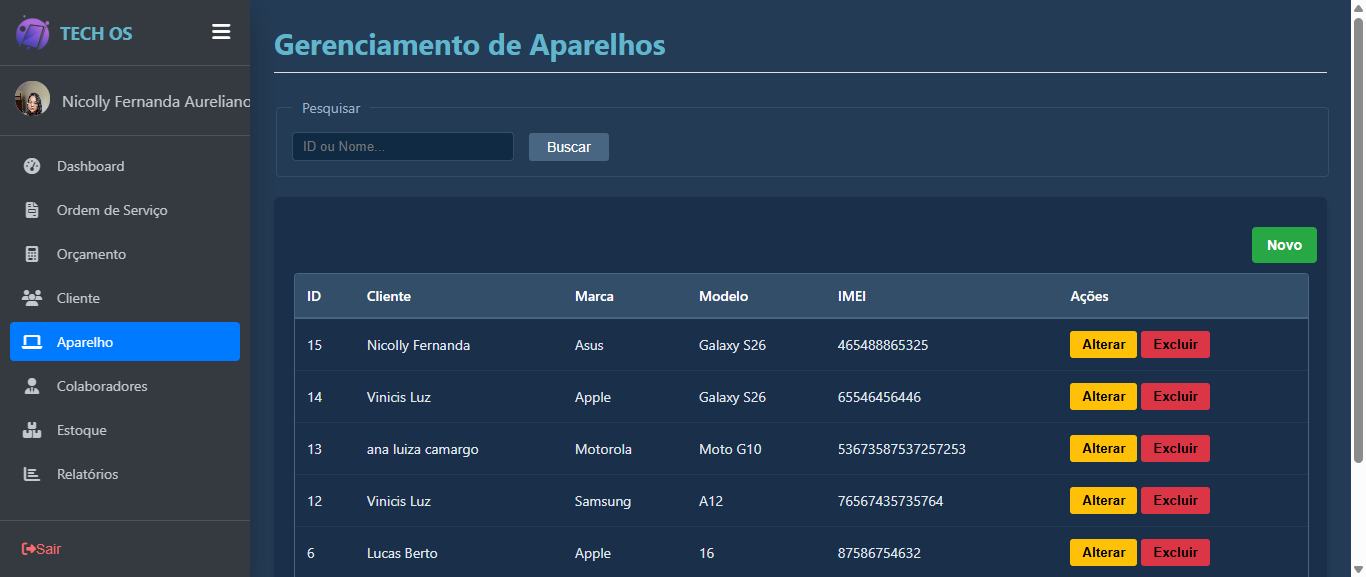
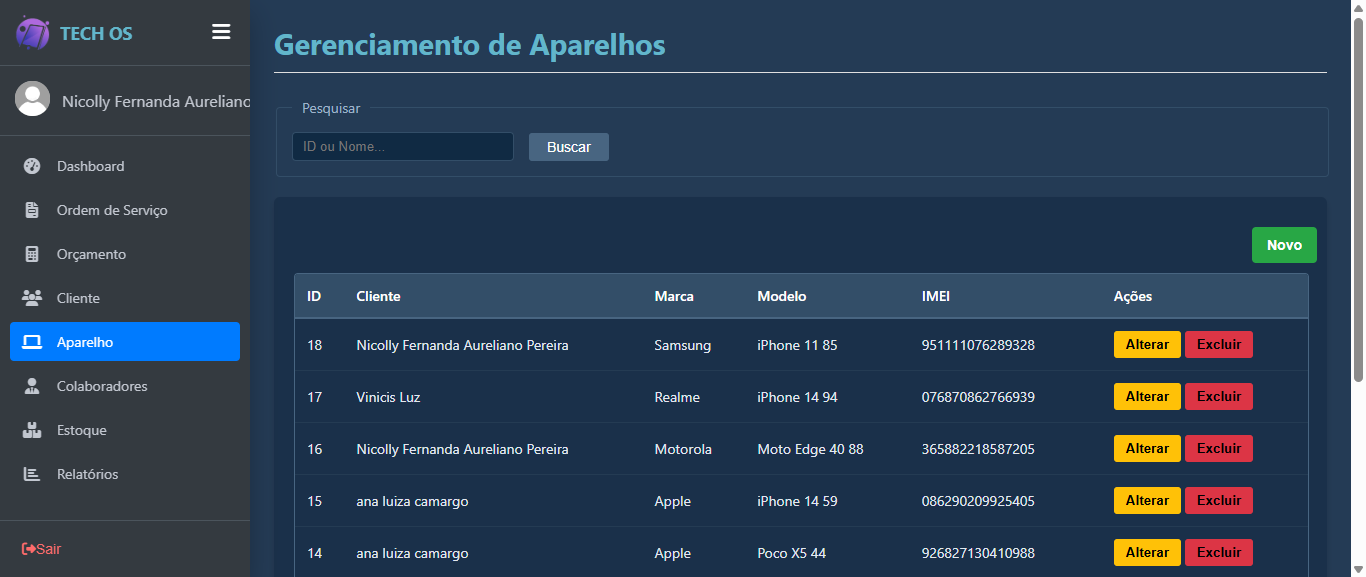
Aparelho
arrumei ne

diff --git a/TesteCadastroAparelho/dashboard.html b/TesteCadastroAparelho/dashboard.html
@@ -24,8 +24,8 @@
             <div class="container">
                 <h1>Relatório de Cadastro de Aparelhos - TechOS</h1>
                 <div class="summary">
-                    <div class="card"><h3>Total</h3><h2>1</h2></div>
-                    <div class="card"><h3 class="status-sucesso">Sucessos</h3><h2>1</h2></div>
+                    <div class="card"><h3>Total</h3><h2>2</h2></div>
+                    <div class="card"><h3 class="status-sucesso">Sucessos</h3><h2>2</h2></div>
                     <div class="card"><h3 class="status-falha">Falhas</h3><h2>0</h2></div>
                 </div>
                 <table>
@@ -42,10 +42,18 @@
         
                 <tr>
                     <td>1</td>
-                    <td>Poco X5 61</td>
-                    <td>046487859013952</td>
+                    <td>iPhone 11 85</td>
+                    <td>951111076289328</td>
                     <td class="status-sucesso">Sucesso</td>
                     <td><a class="img-link" href="cadastro_aparelho_1.png" target="_blank">Visualizar Screenshot</a></td>
+                </tr>
+            
+                <tr>
+                    <td>2</td>
+                    <td>Galaxy S23 57</td>
+                    <td>502369556380729</td>
+                    <td class="status-sucesso">Sucesso</td>
+                    <td><a class="img-link" href="cadastro_aparelho_2.png" target="_blank">Visualizar Screenshot</a></td>
                 </tr>
             
                     </tbody>

diff --git a/teste/teste_aparelho.py b/teste/teste_aparelho.py
@@ -1,5 +1,5 @@
 """
-TESTE AUTOMATIZADO - CADASTRO DE APARELHOS COM LOGIN AUTOMÁTICO (FIX CLICK)
+TESTE AUTOMATIZADO - CADASTRO DE APARELHOS COM LOGIN AUTOMÁTICO (FIX CLICK & DADOS DINÂMICOS)
 Sistema: TechOS
 Ferramenta: Selenium WebDriver com Python
 """
@@ -56,7 +56,8 @@ class TesteAutomatizadoAparelho:
         self.tratar_alerta_se_existir()
 
     def gerar_dados_aleatorios(self):
-        modelos = ["Galaxy S23", "iPhone 14", "Redmi Note 12", "Moto G84", "ZFlip 5", "Poco X5"]
+        # Aumentei a variedade de modelos
+        modelos = ["Galaxy S23", "iPhone 14", "Redmi Note 12", "Moto G84", "ZFlip 5", "Poco X5", "Galaxy A54", "iPhone 11", "Moto Edge 40"]
         imei = "".join([str(random.randint(0, 9)) for _ in range(15)])
         
         return {
@@ -163,6 +164,7 @@ class TesteAutomatizadoAparelho:
             print(f"\n🚀 Iniciando cadastro de aparelho {i+1} de {quantidade}...")
             dados = self.gerar_dados_aleatorios()
             status = "Falha"
+            texto_alerta = None
             
             try:
                 # 2. Navega até a página de aparelhos
@@ -177,29 +179,41 @@ class TesteAutomatizadoAparelho:
                 modal = self.wait.until(EC.visibility_of_element_located((By.ID, "modalAparelho")))
                 form_modal = modal.find_element(By.TAG_NAME, "form")
                 
-                # Preenche Cliente e Marca
+                # Preenche Cliente de forma ALEATÓRIA
                 select_cliente = Select(form_modal.find_element(By.NAME, "nCliente"))
-                if len(select_cliente.options) > 1:
-                    select_cliente.select_by_index(1)
+                qtd_clientes = len(select_cliente.options)
+                if qtd_clientes > 1:
+                    # Escolhe um índice entre 1 e a última opção (ignorando o 0 que costuma ser "Selecione")
+                    index_cliente = random.randint(1, qtd_clientes - 1)
+                    select_cliente.select_by_index(index_cliente)
                 
+                # Preenche Marca de forma ALEATÓRIA
                 select_marca = Select(form_modal.find_element(By.NAME, "nMarca"))
-                if len(select_marca.options) > 1:
-                    select_marca.select_by_index(1)
+                qtd_marcas = len(select_marca.options)
+                if qtd_marcas > 1:
+                    # Escolhe um índice entre 1 e a última opção
+                    index_marca = random.randint(1, qtd_marcas - 1)
+                    select_marca.select_by_index(index_marca)
 
-                # Preenche Modelo e IMEI
+                # Preenche Modelo e IMEI gerados aleatoriamente
                 form_modal.find_element(By.NAME, "nModelo").send_keys(dados["modelo"])
                 form_modal.find_element(By.NAME, "nImei").send_keys(dados["imei"])
                 
-                # 5. Clica no botão Cadastrar
-                btn_cadastrar = form_modal.find_element(By.XPATH, "//button[@type='submit']")
-                self.driver.execute_script("arguments[0].click();", btn_cadastrar)
+                # 5. Clica no botão Cadastrar enviando o formulário
+                form_modal.submit()
                 
                 time.sleep(2)
-                self.tratar_alerta_se_existir()
+                
+                # Armazena o texto do alerta (se houver) para validação
+                texto_alerta = self.tratar_alerta_se_existir()
 
-                # 6. Validação do cadastro
-                if "cadastroaparelho" in self.driver.current_url.lower():
+                # 6. Validação real do cadastro
+                if texto_alerta and "sucesso" in texto_alerta.lower():
                     status = "Sucesso"
+                elif dados["imei"] in self.driver.page_source:
+                    status = "Sucesso"
+                else:
+                    status = f"Falha (Alerta capturado: {texto_alerta})"
                 
             except Exception as e:
                 print(f"✗ Erro no processo: {e}")

diff --git a/php/buscar_aparelhos.php b/php/buscar_aparelhos.php
@@ -1,9 +1,9 @@
 <?php
-// Exibe erros do PHP na tela para depuração
+
 ini_set('display_errors', 1);
 error_reporting(E_ALL);
 
-include("../includes/conexao.php"); // Verifique se o caminho do conexao.php esta correto!
+include("../includes/conexao.php"); 
 
 if (isset($_GET['idCliente']) && !empty($_GET['idCliente'])) {
     $cliente_id = intval($_GET['idCliente']);
